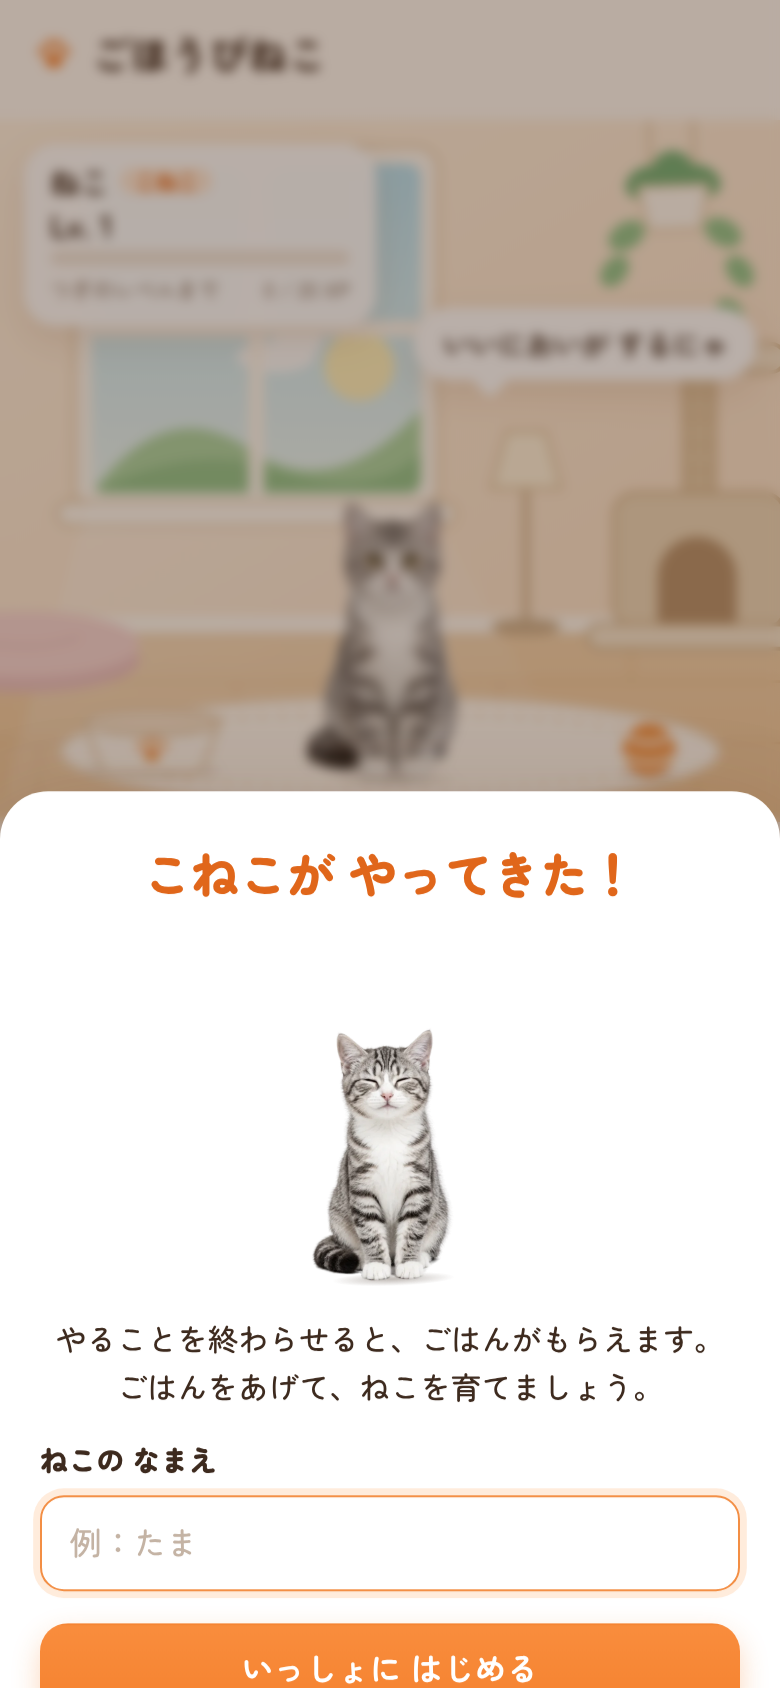
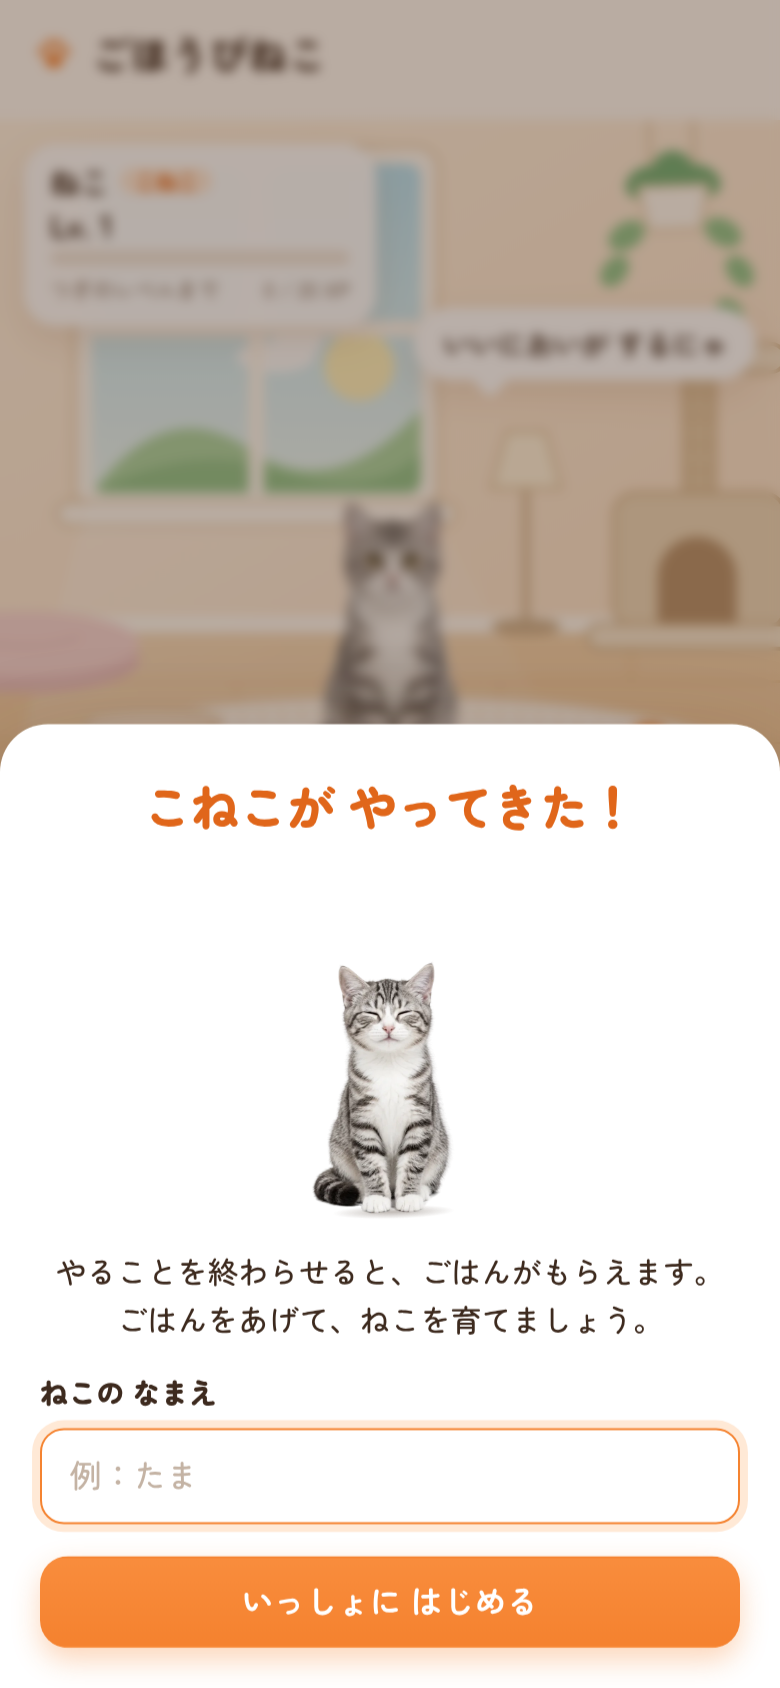
サイドバー下の眠るねこを写真版に差し替え
- オレンジのイラストから、目を閉じた写真のねこがクッションでうとうとする姿に変更
- ゆっくり呼吸する動きと Zzz、ごはんの夢のふきだしを付けた
- スクリーンショットを更新

Claude-Session: https://claude.ai/code/session_0112UXkmngyyzgaREKQpe6dQ

Changed region(s): [[0.0308, 0.5545, 0.9846, 1.0], [0.0, 0.4313, 1.0, 0.5545]]

diff --git a/src/components/SleepingCat.tsx b/src/components/SleepingCat.tsx
@@ -1,44 +1,47 @@
-/** サイドバー下の飾り：クッションで眠るねこ（ごはんの夢を見ている） */
+/**
+ * サイドバー下の飾り：クッションの上でうとうとする、ねこ（写真）。ごはんの夢を見ている。
+ * 写真は目を閉じた「ごきげん」の1枚を使い、ゆっくり呼吸させて Zzz を出す。
+ */
 export function SleepingCat({ className }: { className?: string }) {
   const line = "#7d4a2b";
   return (
-    <svg className={className} viewBox="0 0 220 190" aria-hidden>
-      {/* 葉っぱ */}
-      <g fill="#cfe3c4" opacity=".8">
-        <path d="M14 190 C 4 150, 10 120, 30 100 C 34 130, 30 160, 22 190Z" />
-        <path d="M0 176 C -6 150, 2 132, 16 124 C 18 144, 12 162, 6 178Z" />
-      </g>
-      {/* ふきだし */}
-      <g className="sleep__dream">
-        <circle cx="86" cy="76" r="4" fill="#fff" stroke="#f3d2b3" strokeWidth="1.500" />
-        <circle cx="96" cy="60" r="6" fill="#fff" stroke="#f3d2b3" strokeWidth="1.500" />
-        <ellipse cx="146" cy="38" rx="42" ry="30" fill="#fff" stroke="#f3d2b3" strokeWidth="1.500" />
-        <path d="M124 36h44l-5 13a5 5 0 0 1-5 3h-24a5 5 0 0 1-5-3z" fill="#f8b57a" stroke={line} strokeWidth="1.800" strokeLinejoin="round" />
-        <ellipse cx="146" cy="36" rx="22" ry="6" fill="#c98a4e" stroke={line} strokeWidth="1.800" />
+    <div className={`sleep ${className ?? ""}`} aria-hidden>
+      {/* ごはんの夢のふきだし */}
+      <svg className="sleep__dream" viewBox="0 0 120 80">
+        <circle cx="16" cy="70" r="4" fill="#fff" stroke="#f3d2b3" strokeWidth="1.5" />
+        <circle cx="28" cy="58" r="6" fill="#fff" stroke="#f3d2b3" strokeWidth="1.5" />
+        <ellipse cx="72" cy="32" rx="42" ry="28" fill="#fff" stroke="#f3d2b3" strokeWidth="1.5" />
+        <path d="M50 30h44l-5 13a5 5 0 0 1-5 3H60a5 5 0 0 1-5-3z" fill="#f8b57a" stroke={line} strokeWidth="1.8" strokeLinejoin="round" />
+        <ellipse cx="72" cy="30" rx="22" ry="6" fill="#c98a4e" stroke={line} strokeWidth="1.8" />
         <g fill="#8a5a34">
-          <circle cx="138" cy="35" r="2" />
-          <circle cx="146" cy="33" r="2" />
-          <circle cx="154" cy="36" r="2" />
+          <circle cx="64" cy="29" r="2" />
+          <circle cx="72" cy="27" r="2" />
+          <circle cx="80" cy="30" r="2" />
         </g>
-      </g>
-      {/* クッション */}
-      <ellipse cx="124" cy="166" rx="92" ry="20" fill="#f6c9a4" />
-      <ellipse cx="124" cy="160" rx="92" ry="20" fill="#fbdcc0" />
+      </svg>
+
+      {/* クッション（奥） */}
+      <svg className="sleep__cushion" viewBox="0 0 200 60" preserveAspectRatio="none">
+        <ellipse cx="100" cy="38" rx="96" ry="20" fill="#f3c3a0" />
+        <ellipse cx="100" cy="30" rx="96" ry="20" fill="#fbdcc0" />
+        <path d="M30 28q70 14 140 0" fill="none" stroke="#f3c3a0" strokeWidth="2" strokeLinecap="round" />
+      </svg>
+
       {/* ねこ */}
-      <g className="sleep__cat">
-        <path d="M60 150 C 56 120, 84 104, 124 106 C 168 108, 196 124, 192 148 C 190 164, 160 168, 122 168 C 88 168, 62 166, 60 150Z" fill="#fffaf2" stroke={line} strokeWidth="2.200" />
-        <path d="M150 110 C 176 112, 194 126, 192 146 C 180 140, 166 124, 150 110Z" fill="#f0a25a" />
-        <path d="M104 107 C 116 112, 122 124, 118 136 C 108 128, 102 118, 104 107Z" fill="#f0a25a" />
-        <path d="M52 128 L52 108 L68 116Z M98 118 L104 100 L112 118Z" fill="#f0a25a" stroke={line} strokeWidth="2.200" strokeLinejoin="round" />
-        <ellipse cx="80" cy="140" rx="34" ry="26" fill="#fffaf2" stroke={line} strokeWidth="2.200" />
-        <path d="M58 122 C 66 114, 80 112, 92 118 C 84 124, 70 126, 58 122Z" fill="#f0a25a" />
-        <path d="M64 142 q6 5 12 0 M86 142 q6 5 12 0" fill="none" stroke={line} strokeWidth="2.200" strokeLinecap="round" />
-        <path d="M78 150 h5 l-2.500 3z" fill="#f7a9a0" />
-        <ellipse cx="62" cy="152" rx="6" ry="3.500" fill="#f7a9a0" opacity=".5" />
-        <ellipse cx="100" cy="152" rx="6" ry="3.500" fill="#f7a9a0" opacity=".5" />
-        <path d="M188 150 C 204 152, 206 168, 190 170 C 170 172, 150 170, 140 168" fill="none" stroke={line} strokeWidth="11" strokeLinecap="round" />
-        <path d="M188 150 C 204 152, 206 168, 190 170 C 170 172, 150 170, 140 168" fill="none" stroke="#f0a25a" strokeWidth="7" strokeLinecap="round" />
-      </g>
-    </svg>
+      {/* eslint-disable-next-line @next/next/no-img-element */}
+      <img className="sleep__cat" src="/cat/happy.webp" alt="" width={480} height={720} decoding="async" draggable={false} />
+
+      <span className="sleep__zzz">
+        <i>Z</i>
+        <i>z</i>
+        <i>z</i>
+      </span>
+
+      {/* 葉っぱ */}
+      <svg className="sleep__leaf" viewBox="0 0 40 90">
+        <path d="M14 90 C 4 60, 8 30, 28 8 C 34 40, 30 66, 22 90Z" fill="#cfe3c4" />
+        <path d="M4 90 C -2 70, 2 54, 14 46 C 16 64, 12 78, 8 90Z" fill="#dcebd2" />
+      </svg>
+    </div>
   );
 }

diff --git a/src/app/globals.css b/src/app/globals.css
@@ -1124,8 +1124,30 @@ fieldset:disabled .choice__item { opacity: 0.6; cursor: not-allowed; }
 .levelup__confetti i:nth-child(3n + 1) { background: var(--leaf); }
 .levelup__confetti i:nth-child(4n) { background: var(--pink); }
 
-.sleep__cat { transform-origin: 124px 168px; animation: breathe 3.6s ease-in-out infinite; }
-.sleep__dream { animation: dream 4s ease-in-out infinite; transform-origin: 140px 60px; }
+/* サイドバー下：クッションでうとうとする写真のねこ */
+.sleep { position: relative; height: 200px; }
+.sleep__dream { position: absolute; left: 44%; top: 0; width: 46%; animation: dream 4s ease-in-out infinite; }
+.sleep__cushion { position: absolute; left: 6%; right: 2%; bottom: 0; height: 48px; width: 92%; }
+.sleep__cat {
+  position: absolute;
+  left: 50%;
+  bottom: 14px;
+  width: 92px;
+  height: auto;
+  transform: translateX(-50%);
+  transform-origin: 50% 100%;
+  filter: brightness(0.96) saturate(0.95) drop-shadow(0 4px 4px rgba(125, 74, 43, 0.18));
+  animation: sleep-breathe 4.6s ease-in-out infinite;
+  user-select: none;
+  pointer-events: none;
+}
+.sleep__zzz { position: absolute; left: 68%; top: 76px; font-weight: 900; color: #5b6bb0; -webkit-text-stroke: 3px #fff; paint-order: stroke fill; }
+.sleep__zzz i { position: absolute; font-style: normal; opacity: 0; animation: c-zzz 3s ease-in-out infinite; }
+.sleep__zzz i:nth-child(1) { left: 0; top: 20px; font-size: 20px; }
+.sleep__zzz i:nth-child(2) { left: 14px; top: 2px; font-size: 15px; animation-delay: 0.6s; }
+.sleep__zzz i:nth-child(3) { left: 26px; top: -12px; font-size: 12px; animation-delay: 1.2s; }
+.sleep__leaf { position: absolute; left: 0; bottom: 0; width: 26px; }
+@keyframes sleep-breathe { 0%, 100% { transform: translateX(-50%) scale(1, 1); } 50% { transform: translateX(-50%) scale(1.01, 1.025); } }
 @keyframes dream { 50% { transform: translateY(-4px); } }
 
 /* ---------- ねこ（写真）の表示とうごき ---------- */
